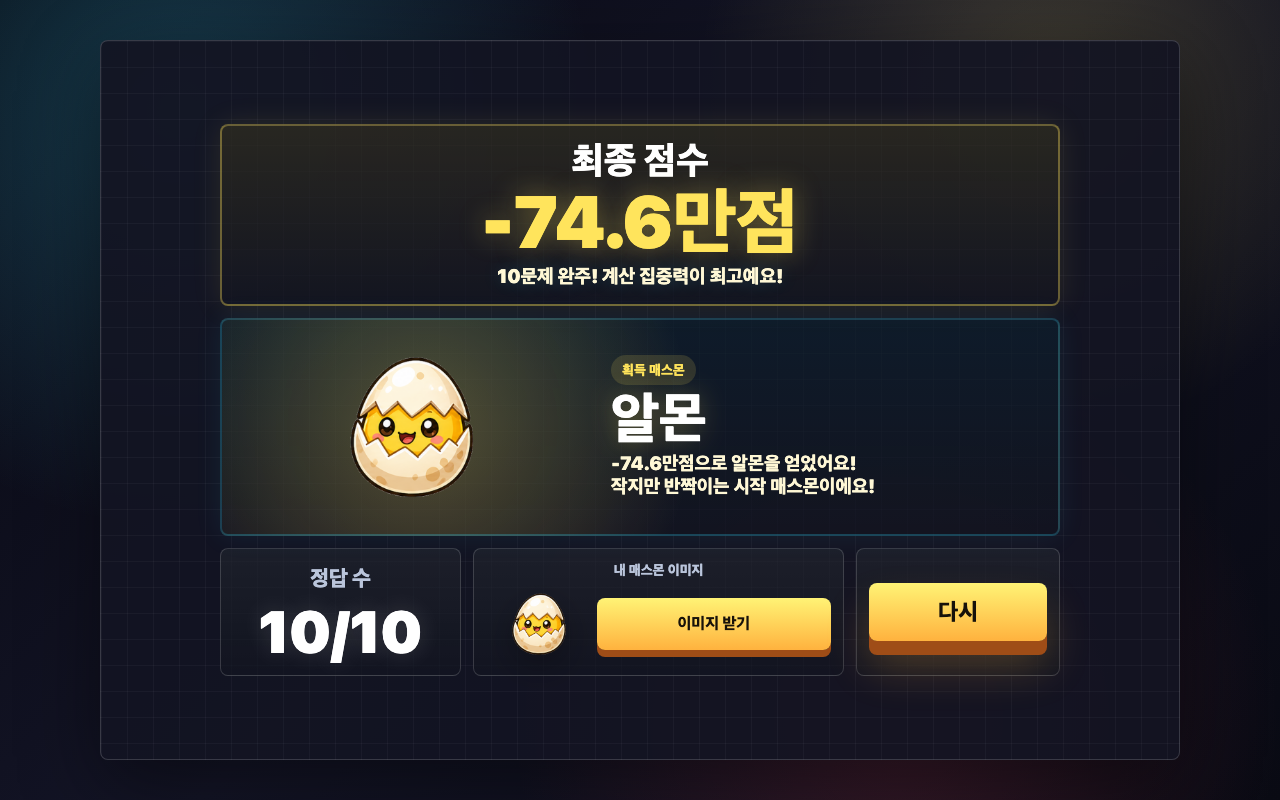
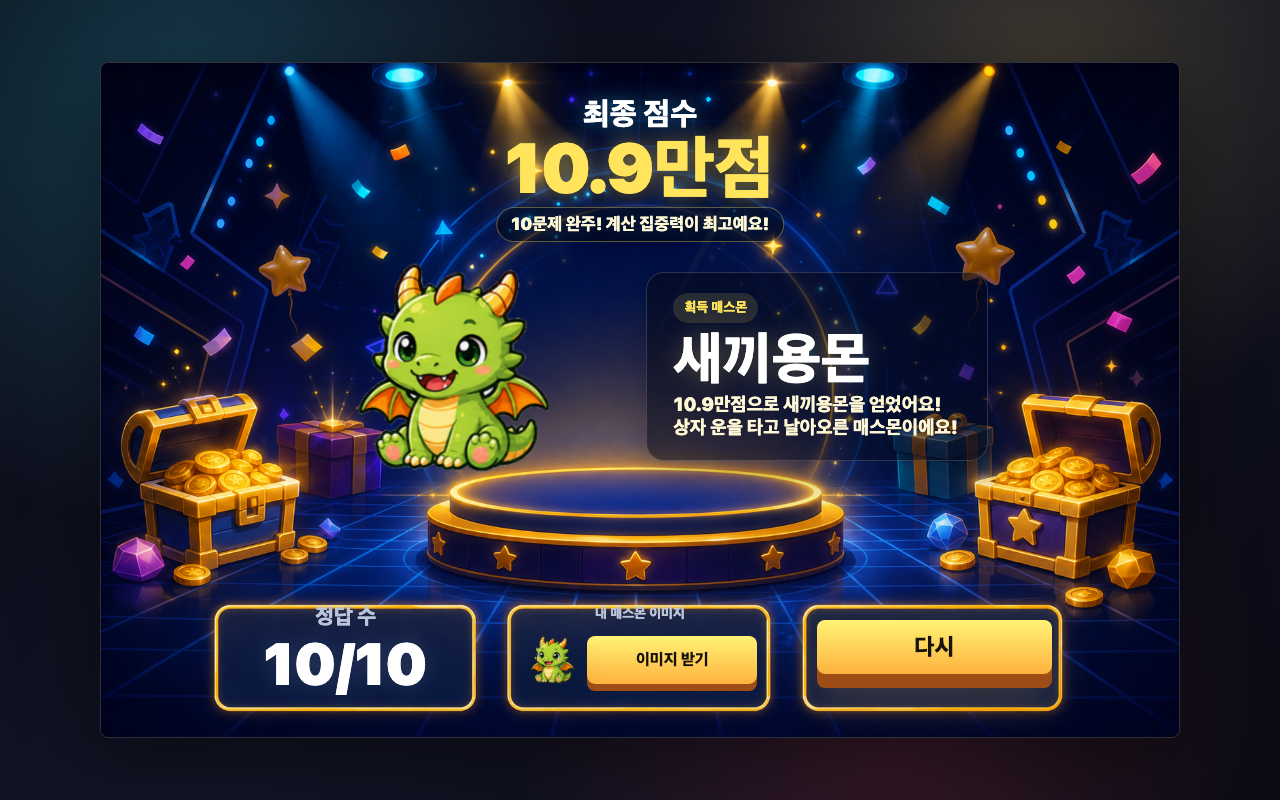
add generated result stage

diff --git a/index.html b/index.html
@@ -886,64 +886,81 @@
     }
 
     .result {
+      width: min(1080px, calc((100dvh - 32px) * 1.598), 100%);
+      min-height: auto;
+      aspect-ratio: 1586 / 992;
       place-items: center;
-      padding: clamp(12px, 3vh, 28px) clamp(18px, 5vw, 58px);
+      padding: 0;
+      position: relative;
+      background: #080914;
+    }
+
+    .result-art {
+      display: block;
+      width: 100%;
+      height: 100%;
+      object-fit: contain;
+      object-position: center;
     }
 
     .result-card {
-      width: min(840px, 100%);
-      display: grid;
-      gap: clamp(10px, 1.5vh, 14px);
+      position: absolute;
+      inset: 0;
+      z-index: 1;
+      width: 100%;
+      height: 100%;
       text-align: center;
     }
 
     .result-summary {
+      position: absolute;
+      top: 5.2%;
+      left: 50%;
+      width: min(66%, 720px);
+      transform: translateX(-50%);
       display: grid;
       justify-items: center;
-      gap: 6px;
-      padding: clamp(12px, 2vh, 18px) clamp(16px, 3vw, 24px);
-      border: 2px solid rgba(255, 228, 92, 0.36);
-      border-radius: var(--radius);
-      background:
-        linear-gradient(180deg, rgba(255, 228, 92, 0.12), rgba(255, 255, 255, 0.04)),
-        rgba(4, 6, 18, 0.66);
-      box-shadow: 0 0 30px rgba(255, 228, 92, 0.1);
+      gap: 4px;
+      padding: 0;
     }
 
     .result-title {
       margin: 0;
       color: #ffffff;
-      font-size: clamp(1.45rem, 3.6vw, 2.35rem);
+      font-size: clamp(1.25rem, 3vw, 1.95rem);
       line-height: 1;
       font-weight: 1000;
+      text-shadow: 0 0 22px rgba(66, 217, 255, 0.42);
     }
 
     .final-score {
       min-width: 0;
       justify-self: center;
-      width: min(780px, 100%);
-      padding: 0 clamp(14px, 3vw, 22px);
-      border: 0;
-      border-radius: 0;
-      background: transparent;
-      color: var(--yellow);
-      font-size: clamp(2.45rem, 7vw, 4.55rem);
-      line-height: 1;
-      font-weight: 1000;
-      overflow-wrap: anywhere;
-      text-shadow: 0 0 28px rgba(255, 228, 92, 0.36);
-    }
-
-    .result-praise {
-      justify-self: center;
-      max-width: min(720px, 100%);
-      margin: 0;
+      width: 100%;
       padding: 0;
       border: 0;
       border-radius: 0;
       background: transparent;
+      color: var(--yellow);
+      font-size: clamp(2.6rem, 6.3vw, 4.35rem);
+      line-height: 1;
+      font-weight: 1000;
+      overflow-wrap: anywhere;
+      text-shadow:
+        0 0 22px rgba(255, 228, 92, 0.48),
+        0 8px 0 rgba(0, 0, 0, 0.28);
+    }
+
+    .result-praise {
+      justify-self: center;
+      max-width: min(680px, 100%);
+      margin: 0;
+      padding: 5px 14px 6px;
+      border: 1px solid rgba(255, 228, 92, 0.36);
+      border-radius: 999px;
+      background: rgba(5, 8, 22, 0.58);
       color: var(--ink);
-      font-size: clamp(0.95rem, 1.9vw, 1.2rem);
+      font-size: clamp(0.9rem, 1.65vw, 1.08rem);
       font-weight: 950;
       line-height: 1.25;
       text-align: center;
@@ -954,20 +971,20 @@
 
     .result-mathmon-scene {
       --mathmon-aura: rgba(255, 228, 92, 0.3);
-      position: relative;
+      position: absolute;
+      top: 21%;
+      left: 13%;
+      right: 13%;
       display: grid;
-      grid-template-columns: minmax(190px, 0.8fr) minmax(0, 1fr);
+      grid-template-columns: minmax(230px, 0.95fr) minmax(0, 1fr);
       align-items: center;
-      gap: clamp(14px, 3vw, 28px);
-      min-height: 196px;
-      padding: clamp(12px, 2vw, 18px);
-      border: 2px solid rgba(66, 217, 255, 0.22);
-      border-radius: var(--radius);
-      background:
-        radial-gradient(circle at 24% 50%, var(--mathmon-aura), transparent 42%),
-        linear-gradient(180deg, rgba(66, 217, 255, 0.08), rgba(255, 255, 255, 0.035)),
-        rgba(4, 6, 18, 0.66);
-      box-shadow: 0 0 28px rgba(66, 217, 255, 0.08);
+      gap: clamp(14px, 3vw, 30px);
+      height: 48%;
+      padding: 0 clamp(24px, 4vw, 54px);
+      border: 0;
+      border-radius: 0;
+      background: transparent;
+      box-shadow: none;
       overflow: hidden;
     }
 
@@ -1000,17 +1017,19 @@
       z-index: 1;
       display: grid;
       place-items: center;
-      min-height: 158px;
+      min-height: 100%;
     }
 
     .result-mathmon-sprite {
-      width: min(178px, 100%);
+      width: min(260px, 100%);
       aspect-ratio: 1;
       border-radius: var(--radius);
       background-size: contain;
       background-position: center;
       background-repeat: no-repeat;
-      filter: drop-shadow(0 24px 28px rgba(0, 0, 0, 0.38));
+      filter:
+        drop-shadow(0 30px 28px rgba(0, 0, 0, 0.42))
+        drop-shadow(0 0 32px var(--mathmon-aura));
       transform: scale(0.92);
     }
 
@@ -1023,7 +1042,12 @@
       z-index: 1;
       display: grid;
       justify-items: start;
-      gap: 7px;
+      gap: 8px;
+      padding: clamp(12px, 2vw, 20px) clamp(14px, 2.5vw, 26px);
+      border: 1px solid rgba(255, 255, 255, 0.16);
+      border-radius: 18px;
+      background: rgba(3, 7, 22, 0.54);
+      box-shadow: 0 18px 42px rgba(0, 0, 0, 0.24);
       text-align: left;
     }
 
@@ -1041,7 +1065,7 @@
 
     .result-mathmon-info strong {
       color: #ffffff;
-      font-size: clamp(1.9rem, 5.2vw, 3.45rem);
+      font-size: clamp(2rem, 5vw, 3.55rem);
       line-height: 0.95;
       font-weight: 1000;
       text-shadow: 0 0 24px rgba(255, 228, 92, 0.26);
@@ -1057,10 +1081,15 @@
     }
 
     .result-stats {
+      position: absolute;
+      left: 10.5%;
+      right: 10.5%;
+      bottom: 4.7%;
+      height: 17.2%;
       display: grid;
-      grid-template-columns: minmax(150px, 0.65fr) minmax(270px, 1fr) minmax(150px, 0.55fr);
+      grid-template-columns: 1fr 1fr 1fr;
       align-items: stretch;
-      gap: 12px;
+      gap: 3.7%;
       padding: 0;
       border: 0;
       border-radius: 0;
@@ -1071,13 +1100,11 @@
       min-width: 0;
       display: grid;
       gap: 5px;
-      min-height: 128px;
-      padding: 12px;
-      border: 1px solid var(--line);
-      border-radius: var(--radius);
-      background:
-        linear-gradient(180deg, rgba(255, 255, 255, 0.08), rgba(255, 255, 255, 0.035)),
-        rgba(4, 6, 18, 0.62);
+      min-height: 0;
+      padding: clamp(8px, 1.6vw, 14px);
+      border: 0;
+      border-radius: 18px;
+      background: transparent;
     }
 
     .result-stat span {
@@ -1112,7 +1139,7 @@
     }
 
     .result-stat--download {
-      grid-template-columns: minmax(74px, 0.45fr) minmax(0, 1fr);
+      grid-template-columns: minmax(58px, 0.35fr) minmax(0, 1fr);
       align-items: center;
       text-align: left;
     }
@@ -1128,7 +1155,7 @@
     }
 
     .download-mathmon {
-      width: min(78px, 100%);
+      width: min(68px, 100%);
       aspect-ratio: 1;
       justify-self: center;
       border-radius: var(--radius);
@@ -1141,8 +1168,8 @@
     .download-button {
       display: inline-grid;
       place-items: center;
-      min-height: 52px;
-      padding: 10px 14px;
+      min-height: 48px;
+      padding: 9px 14px;
       border-radius: var(--radius);
       background: linear-gradient(180deg, #fff375, #ffb23e);
       color: #17120a;
@@ -1164,7 +1191,7 @@
     }
 
     .result .primary-button {
-      min-height: 58px;
+      min-height: 54px;
       align-self: center;
       padding: 10px 18px;
       font-size: clamp(1.15rem, 2.2vw, 1.45rem);
@@ -1466,6 +1493,7 @@
     </section>
 
     <section class="screen result" data-screen="result" aria-labelledby="resultTitle">
+      <img class="result-art" src="result-generated.png?v=1" alt="" aria-hidden="true">
       <div class="result-card">
         <div class="result-summary">
           <h2 class="result-title" id="resultTitle">최종 점수</h2>

diff --git a/REPORT.md b/REPORT.md
@@ -84,7 +84,7 @@
 
 ![최종 결과](screenshots/08-final-result.png)
 
-최종 점수, 획득 매스몬, 정답 수, 매스몬 이미지 받기 버튼을 보여 줍니다. 매스몬은 점수만이 아니라 정답 수 조건도 함께 봅니다.
+최종 결과는 이미지 생성으로 만든 시상식 무대를 배경으로 사용합니다. 최종 점수, 칭찬 문구, 획득 매스몬, 정답 수, 이미지 받기, 다시 버튼은 HTML로 올려 매 판 달라지는 결과값이 정확하게 보이도록 했습니다. 매스몬은 점수만이 아니라 정답 수 조건도 함께 봅니다.
 
 ### 이미지 받기
 
@@ -124,6 +124,7 @@
 
 - `index.html`
 - `cover-generated.png`
+- `result-generated.png`
 - `eduitit-logo-mark.png`
 - `mathmon-0-almon.png` ~ `mathmon-9-kingdragonmon.png`
 - `screenshots/*.png`

diff --git a/README.md b/README.md
@@ -27,6 +27,8 @@
 ## 파일 구성
 
 - `index.html`: 게임 본문
+- `cover-generated.png`: 첫 화면 대표 커버 이미지
+- `result-generated.png`: 최종 결과 무대 배경 이미지
 - `mathmon-*.png`: 최종 점수로 얻는 매스몬 이미지
 - `eduitit-logo-mark.png`: 첫 화면 브랜딩 로고
 - `screenshots/`: 화면별 스크린샷과 다운로드 카드 예시